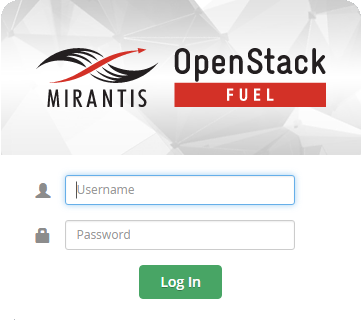
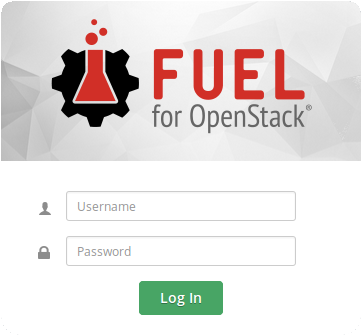
Removes Mirantis-specific content
* Edits the Fuel Installation Guide and Fuel User Guide to remove
Mirantis-specific information.
* Edits setup.cfg and conf.py.
* Replaces the Fuel login screen with a new one.

diff --git a/conf.py b/conf.py
@@ -52,7 +52,7 @@ master_doc = 'index'
 
 # General information about the project.
 project = u'Fuel'
-copyright = u'2012-2016, Mirantis'
+copyright = u'2012-2016, OpenStack'
 
 # The version info for the project you're documenting, acts as replacement for
 # |version| and |release|, also used in various other places throughout the

diff --git a/userdocs/fuel-install-guide/bootstrap/bootstrap_troubleshoot.rst b/userdocs/fuel-install-guide/bootstrap/bootstrap_troubleshoot.rst
@@ -16,7 +16,7 @@ following error messages:
     While you don't activate any bootstrap - new nodes cannot be discovered
     and added to cluster.
     For more information please visit
-    https://docs.mirantis.com/openstack/fuel/fuel-master/"
+    http://docs.openstack.org/developer/fuel-docs/userdocs/fuel-install-guide/bootstrap/bootstrap_troubleshoot.html"
 
 or
 
@@ -29,7 +29,7 @@ or
     While you don't activate any bootstrap - new nodes cannot be discovered
     and added to cluster.
     For more information please visit
-    https://docs.mirantis.com/openstack/fuel/fuel-master/"
+    http://docs.openstack.org/developer/fuel-docs/userdocs/fuel-install-guide/bootstrap/bootstrap_troubleshoot.html"
 
 
 You typically receive such error messages when software

diff --git a/userdocs/fuel-user-guide/create-environment/start-create-env.rst b/userdocs/fuel-user-guide/create-environment/start-create-env.rst
@@ -12,9 +12,9 @@ Fuel plugins may have additional hardware requirements and architectural
 limitations. For more information, see: *System requirements* in the
 *Fuel Installation Guide*.
 
-.. If you are deploying a Mirantis OpenStack environment
-    that is integrated with VMware vSphere, your environment must meet
-   the prerequisites listed in *Install VMware* in *Fuel Installation Guide*.
+.. If you are deploying an OpenStack environment that is integrated with
+   VMware vSphere, your environment must meet the prerequisites listed in
+   *Install VMware* in *Fuel Installation Guide*.
 
 **To create an OpenStack environment:**
 

diff --git a/userdocs/fuel-install-guide/vsphere/vsphere_boot_master.rst b/userdocs/fuel-install-guide/vsphere/vsphere_boot_master.rst
@@ -3,9 +3,8 @@
 Boot the Fuel Master node
 -------------------------
 
-#. When the Mirantis ISO boot menu appears, press the **Tab** key
-   on the keyboard and modify the last kernel parameter ``showmenu``
-   to ``yes``. Press **Enter**.
+#. When the boot menu appears, press the **Tab** key on the keyboard and
+   modify the last kernel parameter ``showmenu`` to ``yes``. Press **Enter**.
 #. Wait for the Fuel Master node installation to complete.
 
 To access the Fuel Web UI, your browser must have an access

diff --git a/userdocs/fuel-user-guide/verify-environment/murano-test-prepare.rst b/userdocs/fuel-user-guide/verify-environment/murano-test-prepare.rst
@@ -15,7 +15,7 @@ add a Linux based image to Murano.
 To prepare the OpenStack Application Catalog for testing,
 add a Linux-based image to Murano. You can download the `pre-built
 Murano image
-<http://murano-files.mirantis.com/ubuntu_14_04-murano-agent_stable_juno.qcow2¬>`_
+<http://storage.apps.openstack.org/images/ubuntu-14.04-m-agent.qcow2>`_
 or build your own as described in  `Murano documentation
 <http://murano.readthedocs.org/en/latest/image_builders/index.html>`_.
 

diff --git a/userdocs/fuel-install-guide/vsphere/vsphere_create_vm.rst b/userdocs/fuel-install-guide/vsphere/vsphere_create_vm.rst
@@ -12,8 +12,7 @@ operating system to run the Fuel Master node on it.
 #. Click **Create a Virtual Machine**.
 #. Click **Create a new virtual machine**.
     Do not use templates.
-#. Name your new VM and choose the datacenter where the Mirantis ISO
-   is located.
+#. Name your new VM and select the datacenter where the Fuel ISO is located.
 #. Select a compute resource (ESXi host), storage, and compatibility
    for the VM.
 #. Select a guest operating system.

diff --git a/userdocs/fuel-install-guide/upgrade/upgrade-apply-patches.rst b/userdocs/fuel-install-guide/upgrade/upgrade-apply-patches.rst
@@ -130,8 +130,6 @@ To verify the packages are up-to-date on the Fuel Slave nodes:
 
 .. note::
    The rollback instructions listed here are for advanced administrators.
-   If you are not sure how to plan and execute the rollbacks,
-   your best option is to contact `Mirantis support <https://www.mirantis.com/services/enterprise-support-services/>`__.
 
 Roll back the Fuel Master node
 ------------------------------

diff --git a/userdocs/fuel-install-guide/vsphere/vsphere_prereq.rst b/userdocs/fuel-install-guide/vsphere/vsphere_prereq.rst
@@ -3,9 +3,8 @@
 VMware vSphere prerequisites
 ----------------------------
 
-Before you install Fuel and use your Mirantis OpenStack environment
-in intergration with vSphere, you must configure all components
-of VMware vSphere.
+Before you install Fuel and use your OpenStack environment in intergration
+with vSphere, you must configure all components of VMware vSphere.
 
 .. note::
 

diff --git a/userdocs/fuel-install-guide/vsphere/vsphere_upload_iso.rst b/userdocs/fuel-install-guide/vsphere/vsphere_upload_iso.rst
@@ -13,5 +13,5 @@ and upload it do a vSphere datastore.
 #. Go to the Datastores and choose your datastore.
 #. Go to the Actions menu and select **Browse Files**.
 #. Click the **Upload Files** icon, browse your filesystem,
-   and select your Mirantis ISO.
+   and select your Fuel ISO.
 #. Proceed to :ref:`vsphere_configure_network`.

diff --git a/userdocs/fuel-install-guide/vsphere/vsphere_configure_esxi_networking.rst b/userdocs/fuel-install-guide/vsphere/vsphere_configure_esxi_networking.rst
@@ -3,8 +3,8 @@
 Configure ESXi host networking
 ------------------------------
 
-To integrate Mirantis OpenStack with VMware vCenter,
-you must configure the VMware ESXi host networking.
+To integrate OpenStack with VMware vCenter, you must configure the VMware ESXi
+host networking.
 
 **To configure ESXi host networking**:
 

diff --git a/userdocs/fuel-user-guide/cli/cli_usage.rst b/userdocs/fuel-user-guide/cli/cli_usage.rst
@@ -170,7 +170,7 @@ To delete the environment:
 
   fuel --env <env_id> env delete
 
-To update the Mirantis OpenStack environment to a newer version
+To update the OpenStack environment to a newer version
 (available since Fuel 5.1):
 
 ::
